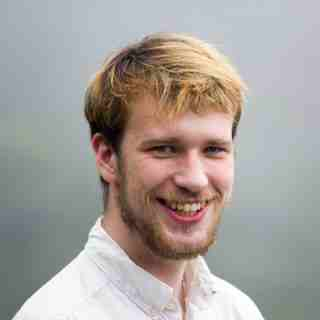
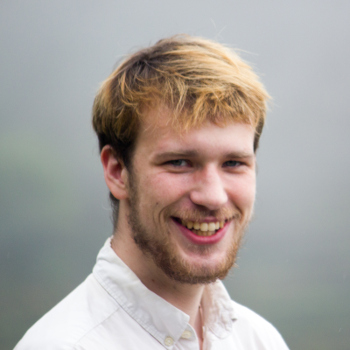
[website] Smaller pictures, cleaner background

diff --git a/background.html b/background.html
@@ -16,7 +16,7 @@
     </head>
 
     <body>
-        <img id='banner' src='website/home-banner.png'>
+        <img id='banner' src='website/home-banner.jpg'>
         <div id='wrapper'>
             <h1>Repairable Community Cellular Networks</h1>
 
@@ -42,29 +42,35 @@
             <h2>Research Papers</h2>
 
             <p>
-            Crowdsourcing Rural Network Maintenance and Repair via Network Messaging https://kurti.sh/pubs/chi-2017-tanay.pdf
-            Esther Jang, Mary Claire Barela, Matt Johnson, Philip Martinez, Cedric Festin, Margaret Lynn, Josephine Dionisio, Kurtis Heimerl.
-            ACM SIGCHI Conference on Human Factors in Computing Systems (CHI) '18
-            Examined the readiness of a rural Philippine community to infrastructure self-repair.
-            Conference Paper
-            Youtube video:
-            https://www.youtube.com/watch?v=prEa6nodiXM
+                <b><a href='https://kurti.sh/pubs/chi-2017-tanay.pdf'>Crowdsourcing Rural Network Maintenance and Repair via Network Messaging</a></b><br>
+                <div class='smalltext'>
+                    Esther Jang, Mary Claire Barela, Matt Johnson, Philip Martinez, Cedric Festin, Margaret Lynn, Josephine Dionisio, Kurtis Heimerl<br>
+                    <i>ACM SIGCHI Conference on Human Factors in Computing Systems (CHI) '18.</i><br>
+                    Examined the readiness of a rural Philippine community to infrastructure self-repair.
+                    Conference Paper<br>
+                    Youtube video:
+                    <a href='https://www.youtube.com/watch?v=prEa6nodiXM'>https://www.youtube.com/watch?v=prEa6nodiXM</a>
+                </div>
             </p>
 
             <p>
-            An Investigation of Phone Upgrades in Remote Community Cellular Networks  https://kurti.sh/pubs/investigation-phone-upgrades-ICTD17.pdf
-            Kushal Shah, Philip Martinez, Emre Tepedelenlioglu, Shaddi Hasan, Cedric Angelo Festin, Joshua Blumenstock, Jo Dionisio, Kurtis Heimerl.
-            International Conference on Information and Communication Technologies and Development (ICTD) '17
-            Examined the factors that influence LTE phone adoption in the Philippines and Indonesia.
-            Conference Paper
+                <b><a href='https://kurti.sh/pubs/investigation-phone-upgrades-ICTD17.pdf'>An Investigation of Phone Upgrades in Remote Community Cellular Networks</a></b>
+                <div class='smalltext'>
+                    Kushal Shah, Philip Martinez, Emre Tepedelenlioglu, Shaddi Hasan, Cedric Angelo Festin, Joshua Blumenstock, Jo Dionisio, Kurtis Heimerl.
+                    <i>International Conference on Information and Communication Technologies and Development (ICTD) '17.</i><br>
+                    Examined the factors that influence LTE phone adoption in the Philippines and Indonesia.<br>
+                    Conference Paper
+                </div>
             </p>
 
             <p>
-            Towards Building a Community Cellular Network in the Philippines: Initial Site Survey Observations https://kurti.sh/pubs/fil_ccn_ictd_2016.pdf
-            Mary Claire Barela, Mae Sincere Blanco, Philip Martinez, Miguel Carlo Purisima, Kurtis Heimerl, Matthew Podolsky, Eric Brewer, Cedric Angelo Festin.
-            International Conference on Information and Communication Technologies and Development (ICTD) '16
-            Explored potential CCN sites in the Philippines.
-            Conference Note
+                <b><a href='https://kurti.sh/pubs/fil_ccn_ictd_2016.pdf'>Towards Building a Community Cellular Network in the Philippines: Initial Site Survey Observations</a></b>
+                <div class='smalltext'>
+                    Mary Claire Barela, Mae Sincere Blanco, Philip Martinez, Miguel Carlo Purisima, Kurtis Heimerl, Matthew Podolsky, Eric Brewer, Cedric Angelo Festin.
+                    <i>International Conference on Information and Communication Technologies and Development (ICTD) '16.</i><br>
+                    Explored potential CCN sites in the Philippines.<br>
+                    Conference Note
+                </div>
             </p>
 
         </div>

diff --git a/index.html b/index.html
@@ -16,7 +16,7 @@
     </head>
 
     <body>
-        <img id='banner' src='website/home-banner.png'>
+        <img id='banner' src='website/home-banner.jpg'>
         <div id='wrapper'>
             <h1>Repairable Community Cellular Networks</h1>
 

diff --git a/website/main.css b/website/main.css
@@ -189,3 +189,5 @@ h2 { font-size: 1.3em; }
 {
     font-weight: bold;
 }
+
+.smalltext { font-size: .8em; }
